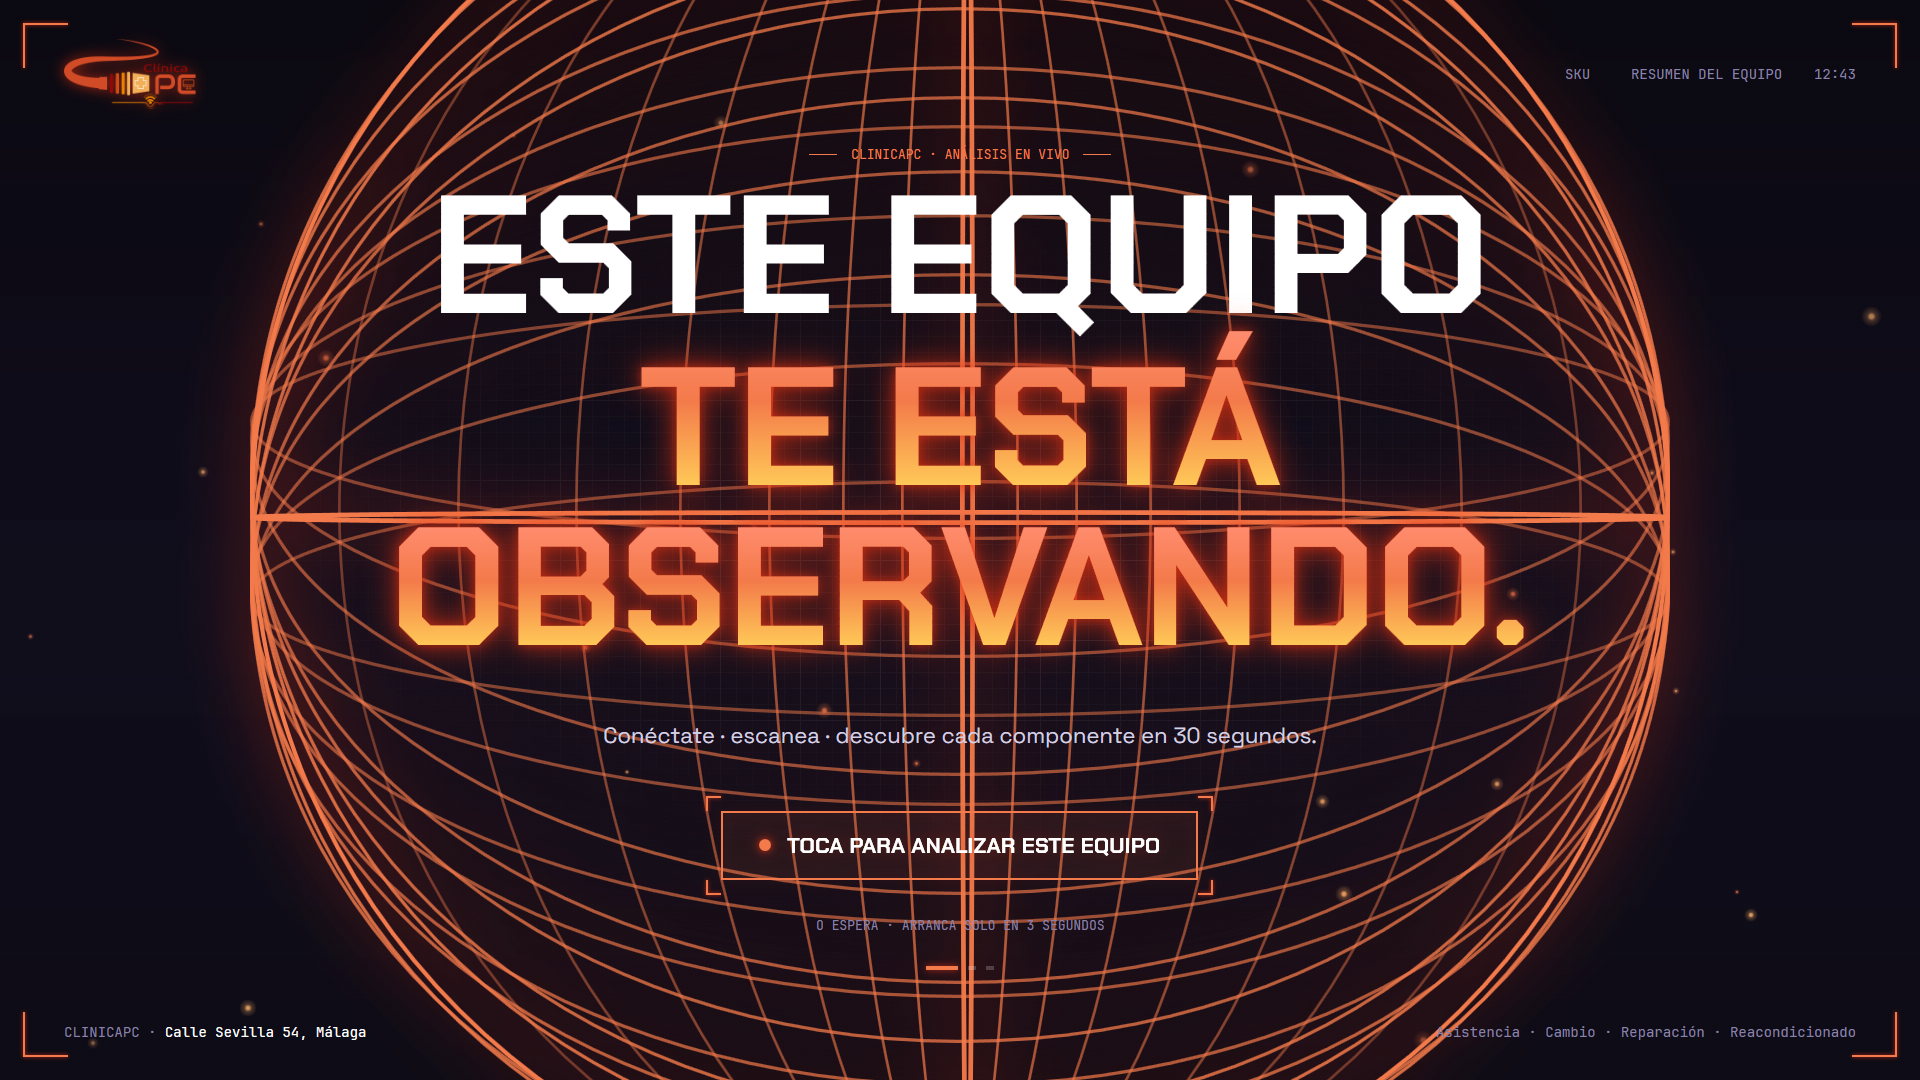
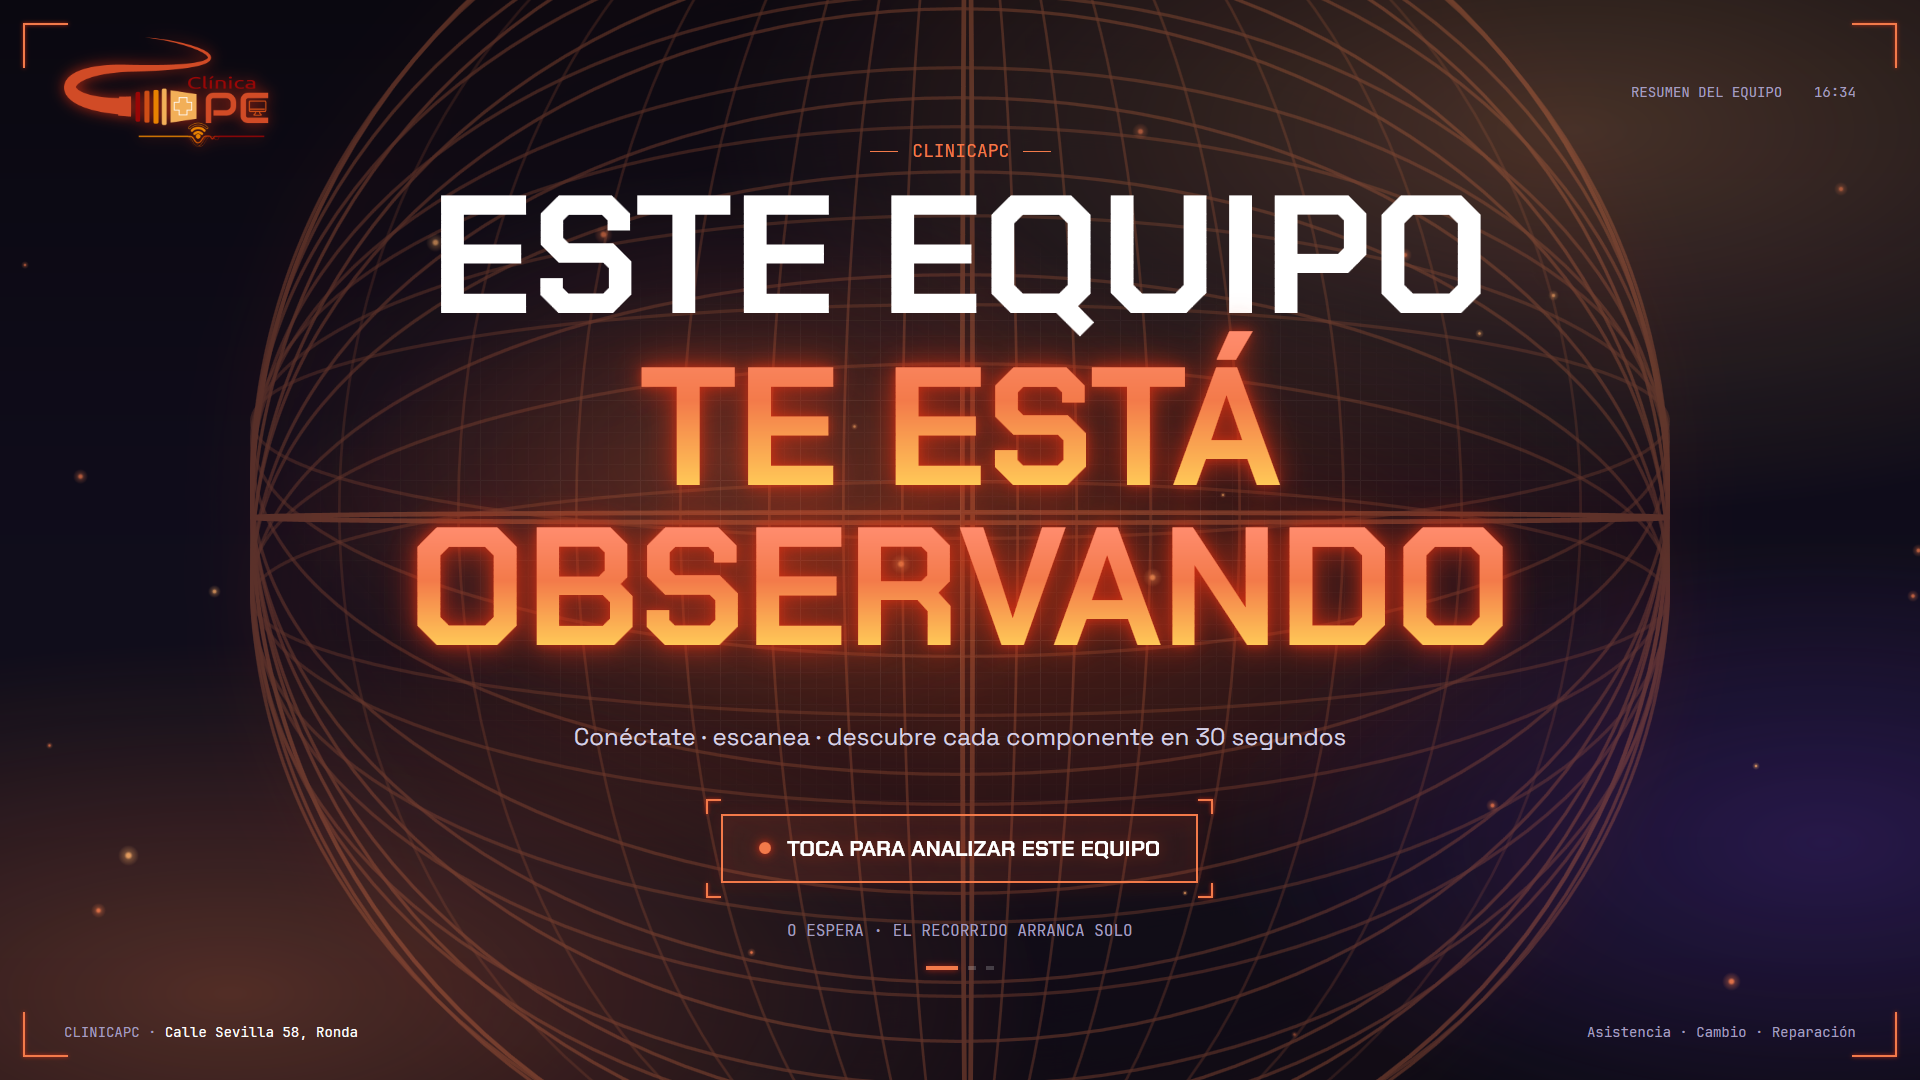
fix: ignora interacción durante el arranque hasta cargar config (evita crash en Attract)

diff --git a/MainWindow.xaml.cs b/MainWindow.xaml.cs
@@ -30,6 +30,7 @@ namespace KioskClinicaPC
     public partial class MainWindow : Window
     {
         private bool _isExitingSafely = false;
+        private bool _ready = false;          // true tras cargar config/hardware; bloquea interacción durante el arranque
         private bool _scanning = false;       // evita secuencias de escaneo solapadas
         private bool _isNavigating = false;   // evita transiciones de pantalla re-entrantes
         private readonly KeyboardHook _hook;
@@ -91,6 +92,7 @@ namespace KioskClinicaPC
             await _viewModel.LoadHardwareAndConfigAsync();
             RefreshQr();
             EnterAttractMode();
+            _ready = true; // DisplayConfig/Specs ya construidos: la interacción puede disparar el escaneo
         }
 
         private void ApplyTimerIntervals() => _timers.ApplyIntervals(_settings);
@@ -143,6 +145,9 @@ namespace KioskClinicaPC
 
         private async void StartScanSequence()
         {
+            // Antes de que LoadHardwareAndConfigAsync termine (~0.5s) DisplayConfig es null:
+            // un clic temprano crasheaba al construir el log y dejaba la pantalla Scan en 0%.
+            if (!_ready) return;
             // Disparable desde clic en atracción, timer de auto-escaneo y teclado. Sin este guard,
             // dos secuencias concurrentes duplicarían logs y navegarían dos veces.
             if (_scanning) return;

diff --git a/README.md b/README.md
@@ -25,7 +25,7 @@ Pones el kiosko en un equipo de la tienda. La app:
 
 Todo editable a mano desde la propia pantalla. Sin tocar código.
 
-![Kiosko en mostrador](docs/screenshots/hero.png)
+![Kiosko en mostrador] (docs/screenshots/hero.png) 
 
 ---
 
@@ -39,26 +39,26 @@ Bucle de slides con orbe wireframe, neón y tu mensaje. Llama la atención cuand
 ### 2. Escaneo
 Radar a pantalla completa mientras lee los componentes reales del equipo.
 
-<!-- 📸 CAPTURA: Screen1 Scan — el radar en plena animación -->
+<!-- CAPTURA: Screen1 Scan — el radar en plena animación -->
 ![Escaneo](docs/screenshots/02-scan.png)
 
 ### 3. Ficha del equipo
 La carne del asunto: specs detectadas, precio (con rebaja opcional), identidad del equipo y QR.
 
-<!-- 📸 CAPTURA: Screen2 Main — ficha completa con specs + precio + QR -->
+<!-- CAPTURA: Screen2 Main — ficha completa con specs + precio + QR -->
 ![Ficha](docs/screenshots/03-main.png)
 
 ### 4. Detalle de componente
 Toca cualquier spec y se abre su explicación ampliada ("qué es y por qué importa").
 
-<!-- 📸 CAPTURA: Screen3 Detail — un componente abierto con gauge/detalle -->
+<!-- CAPTURA: Screen3 Detail — un componente abierto con gauge/detalle -->
 ![Detalle](docs/screenshots/04-detail.png)
 
 ### Ficha en el móvil del cliente
 El QR abre una página que **genera el PDF en el propio móvil**. Las specs viajan dentro del QR,
 así que no hace falta internet en la tienda ni servidor que guarde nada.
 
-<!-- 📸 CAPTURA: el móvil mostrando la ficha PDF generada tras escanear el QR -->
+<!-- CAPTURA: el móvil mostrando la ficha PDF generada tras escanear el QR -->
 ![Ficha en móvil](docs/screenshots/05-pdf-movil.png)
 
 ---